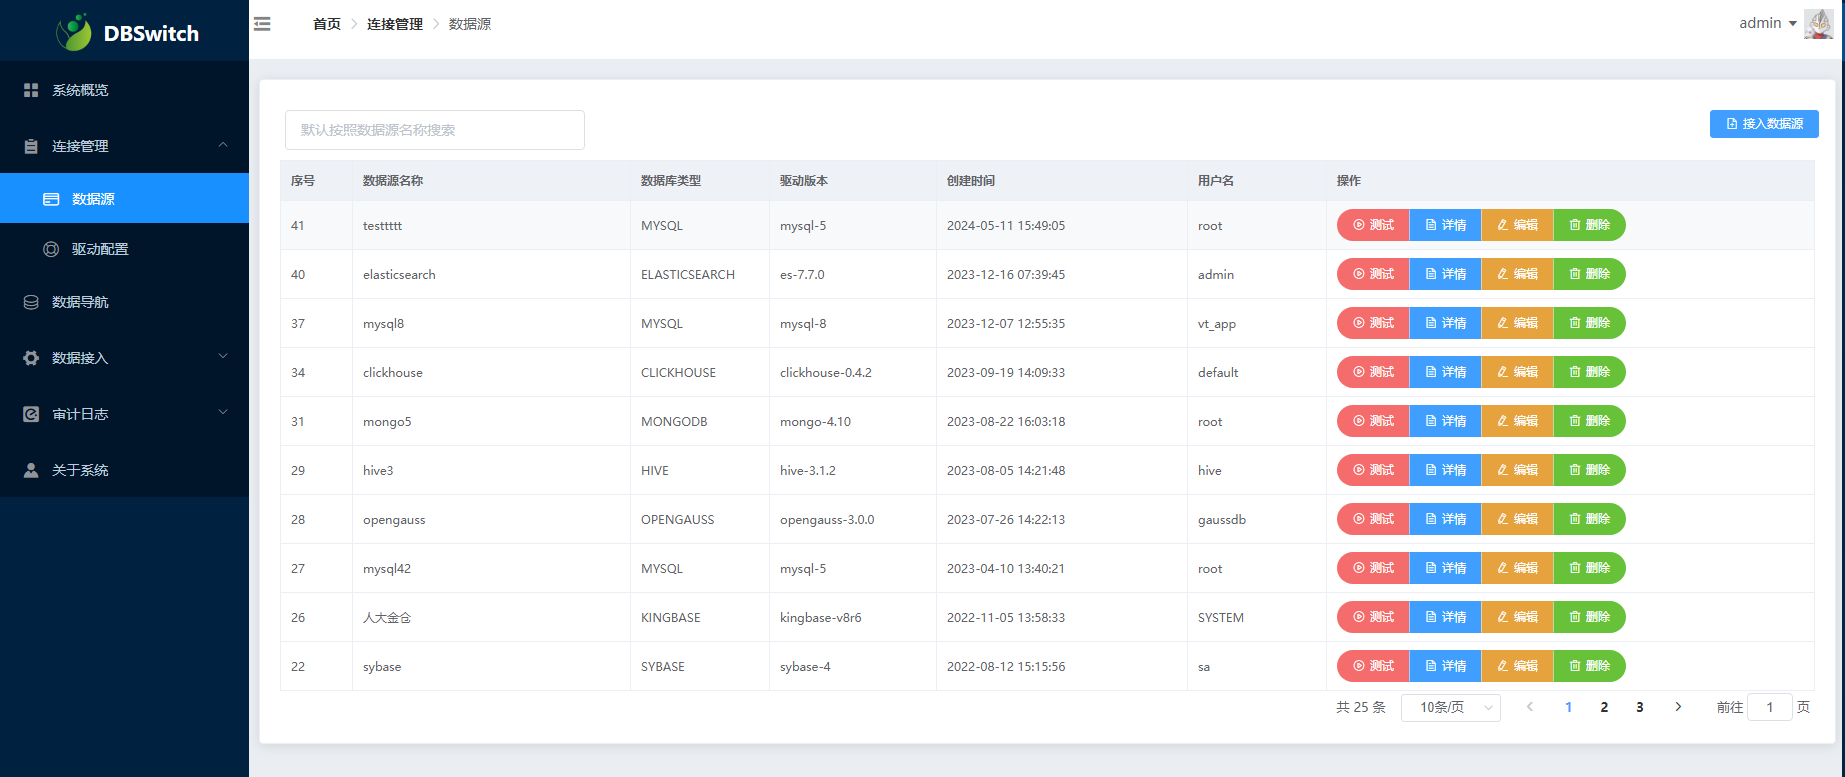
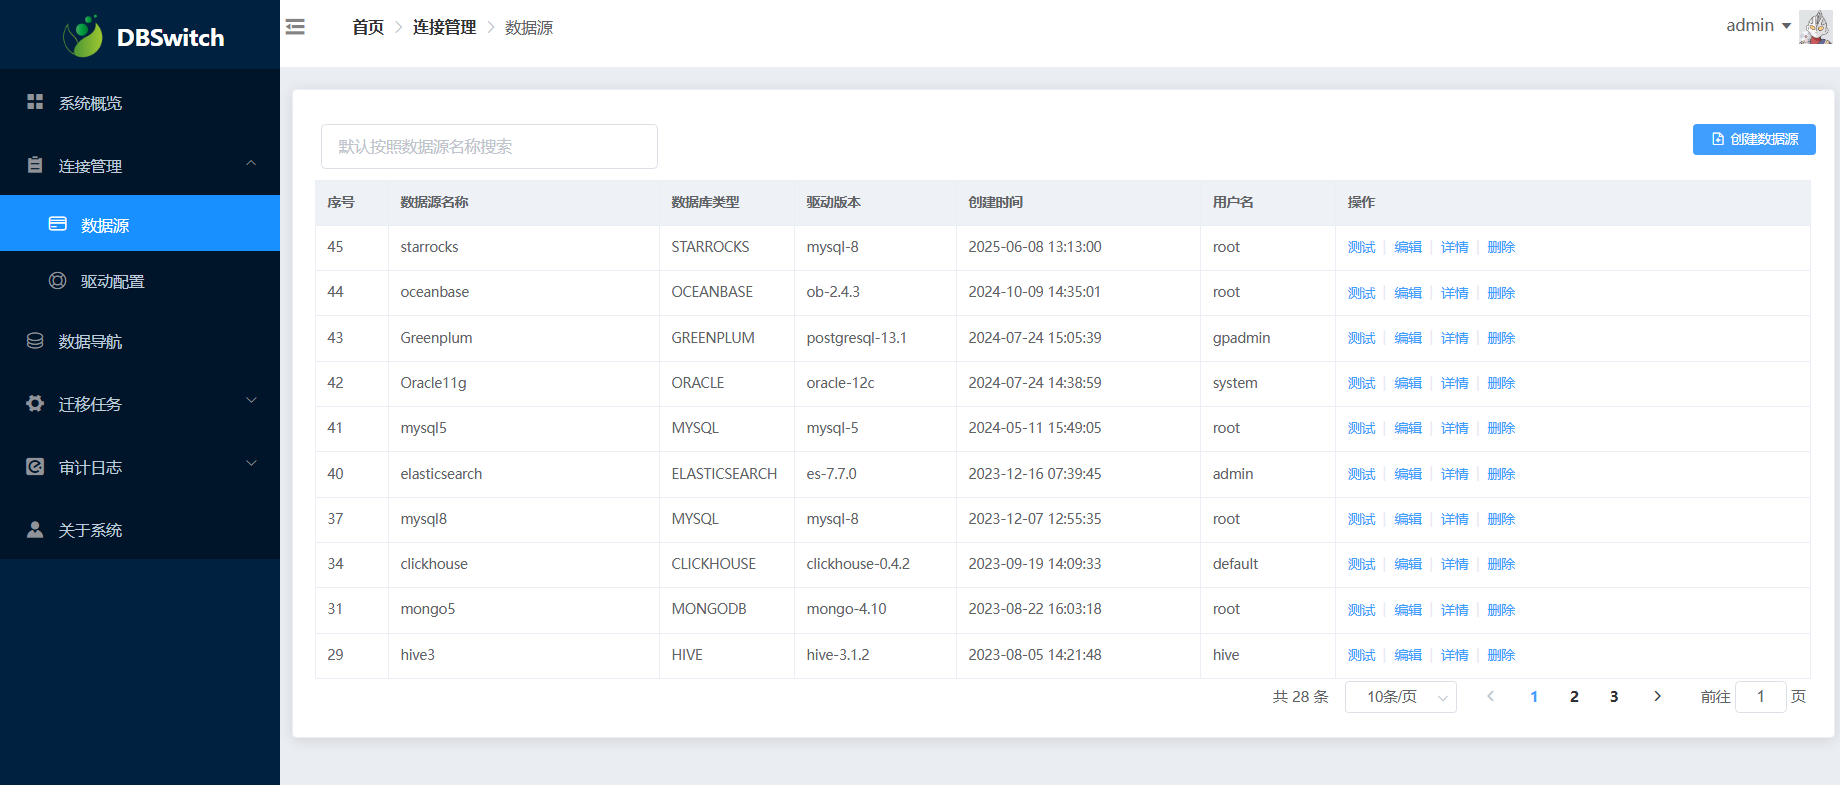
文档错误问题修正

diff --git a/ADD_PRODUCT_DOC.md b/ADD_PRODUCT_DOC.md
@@ -146,11 +146,11 @@ org.dromara.dbswitch.product.openguass.OpenGaussFactoryProvider
     </dependency>
 ```
 
-**(6) 根目录下的drivers下添加驱动jar文件
+**(6) 根目录下的drivers下添加驱动jar文件**
 
 在根目录下的drivers/opengauss/opengauss-3.0.0/下增加对应的版本的驱动jar文件。
 
-**(7) 前端项目中增加PGN数据库图标文件
+**(7) 前端项目中增加PGN数据库图标文件**
 
 对于前段项目，还需要在dbswitch-admin-ui/src/icons目录下增加对应数据库的PNG图标文件，文件命名需为
 org.dromara.dbswitch.common.type.ProductTypeEnum#name做文件名，.png做文件后缀。

diff --git a/SUPPORTED_PRODUCTS.md b/SUPPORTED_PRODUCTS.md
@@ -166,7 +166,7 @@ jdbc驱动名称：org.sqlite.JDBC
 
 ```
 jdbc连接地址：jdbc:mongodb://172.17.2.12:27017/admin?authSource=admin&authMechanism=SCRAM-SHA-1
-jdbc驱动名称：org.dromara.jdbc.mongodb.JdbcDriver
+jdbc驱动名称：com.gitee.jdbc.mongodb.JdbcDriver
 ```
 
 > 项目地址：https://gitee.com/inrgihc/jdbc-mongodb-driver
@@ -175,7 +175,7 @@ jdbc驱动名称：org.dromara.jdbc.mongodb.JdbcDriver
 
 ```
 jdbc连接地址：jdbc:jest://172.17.2.12:9200?useHttps=false
-jdbc驱动名称：org.dromara.jdbc.elasticsearch.JdbcDriver
+jdbc驱动名称：com.gitee.jdbc.elasticsearch.JdbcDriver
 ```
 
 > 项目地址：https://gitee.com/inrgihc/jdbc-jest-driver

diff --git a/README.md b/README.md
@@ -387,7 +387,7 @@ bin/startup.sh
 
 - WEB系统的使用流程为：
 
-> 建立源端数据库的连接 -> 建立目的断数据库的连接  -> 配置任务  -> 发布任务  -> 手动/系统调度执行任务  -> 查看调度记录 -> 数据目录查看数据结果
+> 建立源端数据库的连接 -> 建立目的断数据库的连接  -> 配置任务  -> 发布任务  -> 手动/系统调度执行任务  -> 查看监控调度日志 -> 数据目录查看数据结果
 
 - WEB系统的部分截图：
 